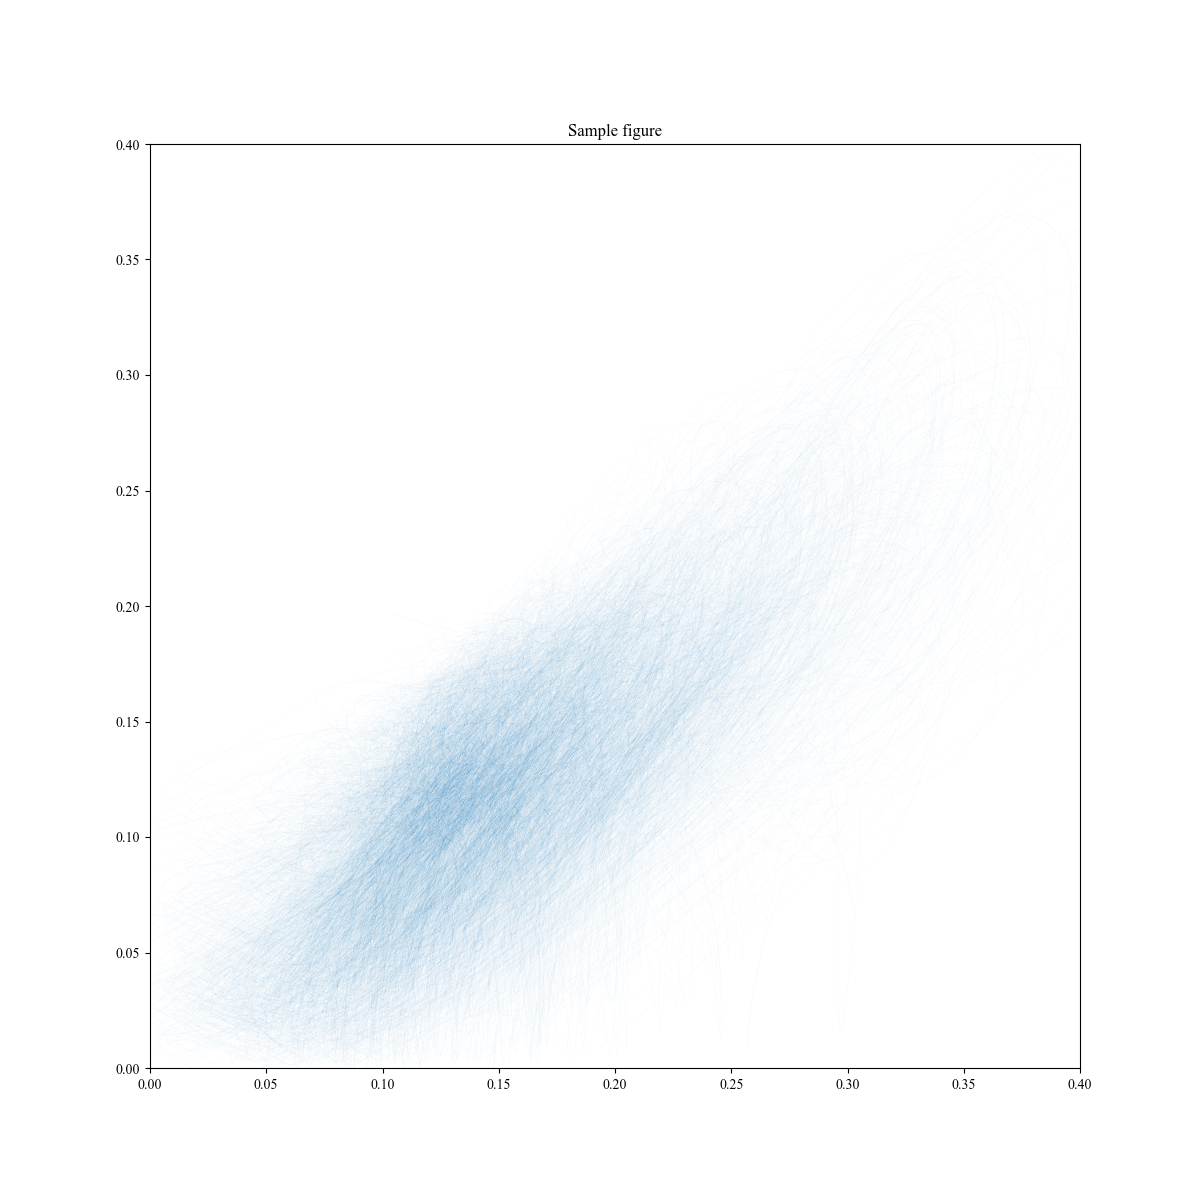
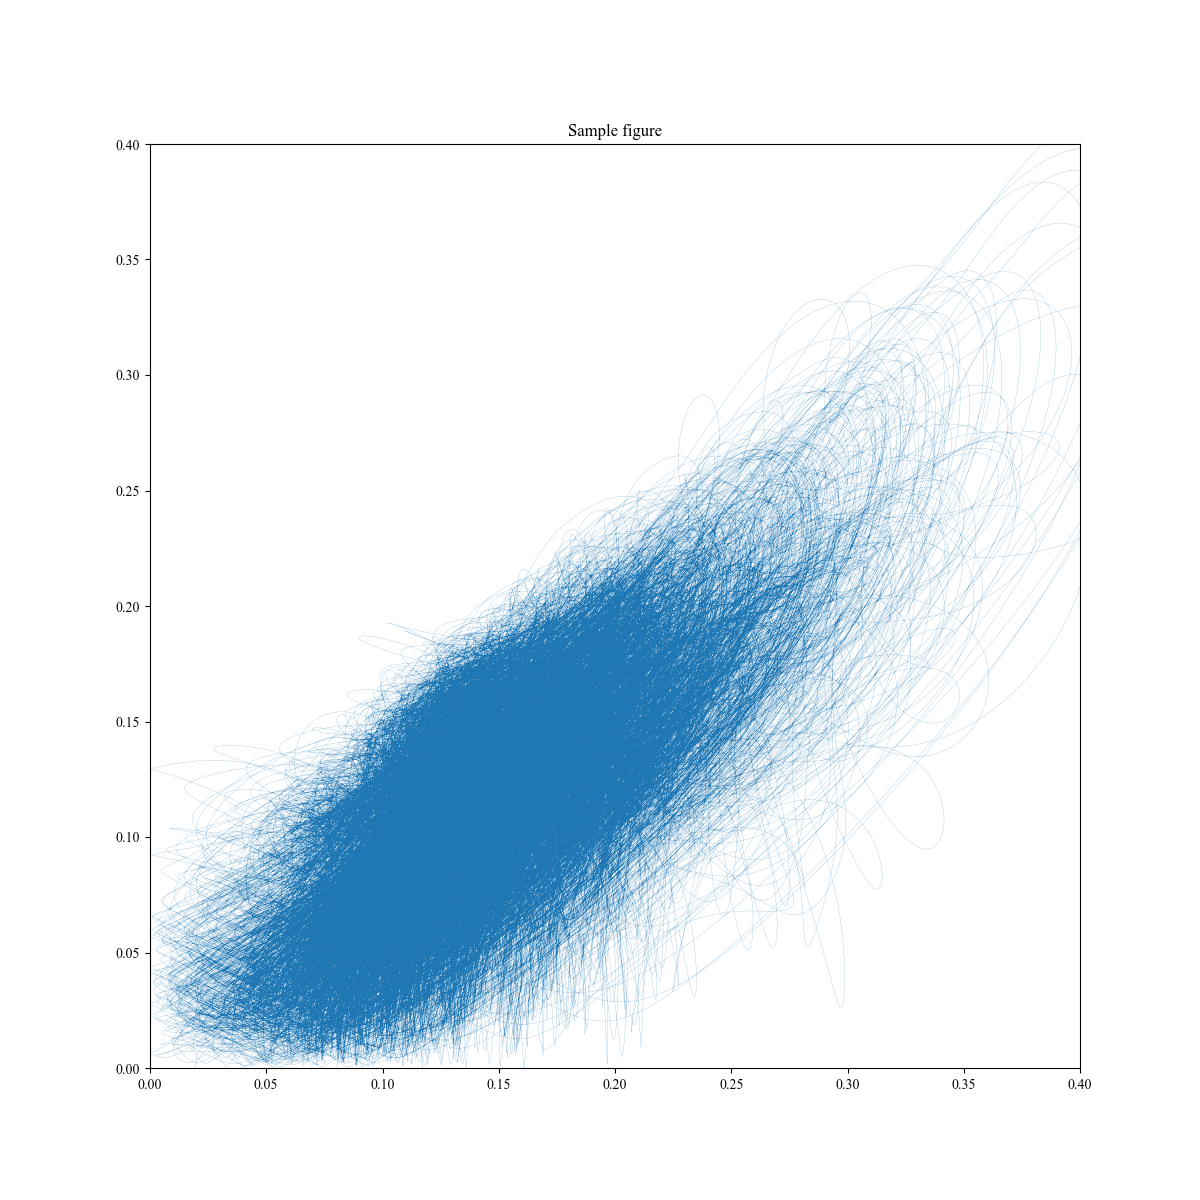
add graphs

Changed region(s): [[0.1233, 0.2158, 0.8633, 0.8942]]

diff --git a/code/extract_sync.cpp b/code/extract_sync.cpp
@@ -27,8 +27,8 @@ bool isSync(double a, double b, double epsilon);
 
 int main(){
     auto start = std::chrono::system_clock::now(); // 計測開始時間
-    double nu = 0.00018;
-    double beta = 0.423;
+    double nu = 1.8e-4;
+    double beta = 0.469363;
     std::complex<double> f = std::complex<double>(1.0,1.0) * 5.0 * 0.001;
     double dt = 0.01;
     double t_0 = 0;
@@ -36,25 +36,26 @@ int main(){
     double latter = 1;
     int numthreads = omp_get_max_threads();
     int window = 1000; // how long the sync part should be. (sec)
-    window *= 100; // when dt = 0.01 
+    window *= 100; // 100 when dt = 0.01 
+    int trim = 100; // how much to trim from both starts and ends of sync part
 
     //make pairs of shells to observe phase difference(num begins from 1)
     std::vector<std::tuple<int, int, double>> sync_pairs;
 
-    sync_pairs.push_back(std::make_tuple(5, 8, 2.2));
-    sync_pairs.push_back(std::make_tuple(5, 11, 2.2));
-    sync_pairs.push_back(std::make_tuple(5, 14, 2.2));
-    sync_pairs.push_back(std::make_tuple(8, 11, 0.5));
-    sync_pairs.push_back(std::make_tuple(8, 14, 0.5));
-    sync_pairs.push_back(std::make_tuple(11, 14, 1E-2));
+    sync_pairs.push_back(std::make_tuple(5, 8, 2.3));
+    sync_pairs.push_back(std::make_tuple(5, 11, 2.3));
+    sync_pairs.push_back(std::make_tuple(5, 14, 2.3));
+    sync_pairs.push_back(std::make_tuple(8, 11, 0.7));
+    sync_pairs.push_back(std::make_tuple(8, 14, 0.7));
+    sync_pairs.push_back(std::make_tuple(11, 14, 1E-1));
 
-    sync_pairs.push_back(std::make_tuple(6, 9, 2));
-    sync_pairs.push_back(std::make_tuple(6, 12, 2));
-    sync_pairs.push_back(std::make_tuple(9, 12, 0.2));
+    sync_pairs.push_back(std::make_tuple(6, 9, 2.3));
+    sync_pairs.push_back(std::make_tuple(6, 12, 2.3));
+    sync_pairs.push_back(std::make_tuple(9, 12, 3e-1));
 
     // sync_pairs.push_back(std::make_tuple(1, 2, 4)); // dummy to check unextracted trajectory
 
-    Eigen::VectorXcd x_0 = npy2EigenVec("../../initials/beta0.41616_nu0.00018_10000period_dt0.01.npy");
+    Eigen::VectorXcd x_0 = npy2EigenVec("../../initials/beta0.469363_nu0.00011815_2000period.npy");
     ShellModel solver(nu, beta, f, dt, t_0, t, latter, x_0);
     std::cout << "calculating trajectory" << std::endl;
     Eigen::MatrixXcd trajectory = solver.get_trajectory_(); //wide matrix
@@ -99,7 +100,7 @@ int main(){
         else{
             if (counter >= window){
                 //adding synchronized part to synced
-                for (int j = 0 + 500*100; j < counter - 1 - 500*100; j++){
+                for (int j = 0 + trim*100; j < counter - 1 - trim*100; j++){
                     for (int k = 0; k < angles.cols() + 1; k++){
                         synced[k].push_back(trajectory(k, j + i - counter));
                     }
@@ -144,11 +145,11 @@ int main(){
     keywords.insert(std::make_pair("wspace", 0.4)); // also hspace
     std::vector<double> x(synced[0].size()/skip),y(synced[0].size()/skip);
     for (int i = 0; i < x.size(); i++){
-        x[i] = std::abs(synced[14][i*skip]);
-        y[i] = std::abs(synced[0][i*skip]);
+        x[i] = std::abs(synced[3][i*skip]);
+        y[i] = std::abs(synced[4][i*skip]);
     }
-    // plt::xlim(0.0, 0.4);
-    // plt::ylim(0.0, 0.4);
+    plt::xlim(0.0, 0.4);
+    plt::ylim(0.0, 0.4);
     plt::scatter(x, y);
 
     std::ostringstream oss;

diff --git a/code/stagger_and_step_sync.cpp b/code/stagger_and_step_sync.cpp
@@ -30,18 +30,18 @@ std::tuple<Eigen::VectorXd, Eigen::VectorXd, Eigen::VectorXcd> calc_next(ShellMo
 int main(){
     auto start = std::chrono::system_clock::now(); // 計測開始時間
     const double nu = 0.00018;
-    const double beta = 0.445;
+    const double beta = 0.429;
     const std::complex<double> f = std::complex<double>(1.0,1.0) * 5.0 * 0.001;
     const double dt = 0.01;
     const double t_0 = 0;
-    const double t = 1000;
+    const double t = 10000;
     const double latter = 1;
     const double check = 1000;
-    const double progress = 1000;
+    const double progress = 10;
     int limit = 1e+5; //limitation of trial of stagger and step
-    // Eigen::MatrixXcd loaded = npy2EigenMat<std::complex<double>>("../../generated_lam/sync_gen_laminar_beta_0.444nu_0.00018_dt0.01_3000period2000check1000progress10^-1-10^2147483647perturb_4-7_4-10_4-13_7-10_7-13_10-13_5-8_5-11_5-14_8-11_8-14_11-14_6-9_6-12_9-12.npy");
-    // Eigen::VectorXcd x_0 = loaded.block(0, 2000*100, 14, 1);
-    Eigen::VectorXcd x_0 = npy2EigenVec<std::complex<double>>("../../initials/beta0.444_nu0.00018_2000period_dt0.01_4-7_4-10_4-13_7-10_7-13_10-13_5-8_5-11_5-14_8-11_8-14_11-14_6-9_6-12_9-12.npy");
+    Eigen::MatrixXcd loaded = npy2EigenMat<std::complex<double>>("../../generated_lam/sync_gen_laminar_beta_0.429nu_0.00018_dt0.01_1000period1000check10progress10^-5-10^-3perturb_4-7_4-10_4-13_7-10_7-13_10-13_5-8_5-11_5-14_8-11_8-14_11-14_6-9_6-12_9-12.npy");
+    Eigen::VectorXcd x_0 = loaded.block(0, 1000*100, 14, 1);
+    // Eigen::VectorXcd x_0 = npy2EigenVec<std::complex<double>>("../../initials/beta0.429_nu0.00018_1500period_dt0.01_4-7_4-10_4-13_7-10_7-13_10-13_5-8_5-11_5-14_8-11_8-14_11-14_6-9_6-12_9-12.npy");
     ShellModel SM(nu, beta, f, dt, t_0, t, latter, x_0);
     Eigen::MatrixXcd Dummy_Laminar(x_0.rows()+1, 1); //dummy matrix to use LongLaminar Class
     LongLaminar LL(nu, beta, f, dt, t_0, t, latter, x_0, Dummy_Laminar, 0.01, 100, check, progress, 8);
@@ -168,7 +168,7 @@ int main(){
                 ShellModel Local_SM = SM; // copy of SM
                 std::vector<std::tuple<int, int, double>> Local_sync_pairs = sync_pairs; // copy of sync_pairs
                 double Local_now_time = Local_SM.get_t_0_();
-                Eigen::VectorXcd Local_x_0 = Local_LL.perturbation_(Local_SM.get_x_0_(), -14, -1);
+                Eigen::VectorXcd Local_x_0 = Local_LL.perturbation_(Local_SM.get_x_0_(), -10, -3);
                 Eigen::VectorXcd Local_now = Local_x_0; // perturbed initial state
                 Eigen::MatrixXcd Local_trajectory = Eigen::MatrixXcd::Zero(Local_now.rows()+1, progress_steps+1); //wide matrix for progress
                 Local_trajectory.topLeftCorner(Local_now.rows(), 1) = Local_now;

diff --git a/code/lyapunov.cpp b/code/lyapunov.cpp
@@ -34,7 +34,7 @@ int main() {
     std::complex<double> f = std::complex<double>(1.0,1.0) * 5.0 * 0.001;
     double dt = 0.01;
     double t_0 = 0;
-    double t = 100000;
+    double t = 1e+5;
     double latter = 1;
     int threads = omp_get_max_threads();
     Eigen::VectorXcd x_0 = npy2EigenVec<std::complex<double>>("../../initials/beta0.44_nu0.00018_10000period_dt0.01_4-7_4-10_4-13_7-10_7-13_10-13_5-8_5-11_5-14_8-11_8-14_11-14_6-9_6-12_9-12.npy");
@@ -45,7 +45,7 @@ int main() {
     Eigen::MatrixXcd rawData = SM.get_trajectory_();
     // データの読み込みをここに記述
     // bool laminar = true;
-    // Eigen::MatrixXcd rawData = npy2EigenMat("../../generated_lam/sync_gen_laminar_beta_0.423nu_0.00018_dt0.01_100000period1000check100progress10^-7-10^-4perturb_4-7_4-10_4-13_7-10_7-13_10-13_5-8_5-11_5-14_8-11_8-14_11-14_6-9_6-12_9-12.npy");
+    // Eigen::MatrixXcd rawData = npy2EigenMat<std::complex<double>>("../../generated_lam/sync_gen_laminar_beta_0.428nu_0.00018_dt0.01_20000period3000check100progress10^-15-10^-12perturb_4-7_4-10_4-13_7-10_7-13_10-13_5-8_5-11_5-14_8-11_8-14_11-14_6-9_6-12_9-12.npy");
     
     
     int dim = rawData.rows() - 1;

diff --git a/code/trajectory_observation.cpp b/code/trajectory_observation.cpp
@@ -14,14 +14,14 @@ namespace plt = matplotlibcpp;
 
 int main(){
     auto start = std::chrono::system_clock::now(); // 計測開始時間
-    double nu = 0.00018;
-    double beta = 0.43;
+    double nu = 0.0021;
+    double beta = 0.5;
     std::complex<double> f = std::complex<double>(1.0,1.0) * 5.0 * 0.001;
-    double ddt = 0.01;
+    double ddt = 0.001;
     double t_0 = 0;
     double t = 1e+5;
     double latter = 1;
-    Eigen::VectorXcd x_0 = npy2EigenVec<std::complex<double>>("../../initials/beta0.41575_nu0.00018_14dim_period.npy");
+    Eigen::VectorXcd x_0 = npy2EigenVec<std::complex<double>>("../../initials/beta0.44_nu0.00018_3period_dt0.01eps0.001.npy");
     ShellModel solver(nu, beta, f, ddt, t_0, t, latter, x_0);
     Eigen::MatrixXcd trajectory = solver.get_trajectory_(); 
     // plot settings
@@ -40,7 +40,7 @@ int main(){
         y[i]=trajectory.cwiseAbs()(4, i);
     }
     std::map<std::string, std::string> keywords;
-    keywords["lw"] = "0.1";
+    keywords["lw"] = "0.01";
     plt::xlim(0.0, 0.4);
     plt::ylim(0.0, 0.4);
     plt::plot(x,y, keywords);

diff --git a/code/search_laminar_around_turbulence.cpp b/code/search_laminar_around_turbulence.cpp
@@ -27,13 +27,13 @@ int main(){
     double t_0 = 0;
     double t = 20000;
     double latter = 4;
-    Eigen::VectorXcd x_0 = npy2EigenVec("../../initials/beta0.416_nu0.00017520319481270297_step0.01_10000.0period_laminar.npy");
+    Eigen::VectorXcd x_0 = npy2EigenVec("../../initials/beta0.415_nu0.00018_100000period_dt0.01.npy");
     ShellModel SM(nu, beta, f, ddt, t_0, t, latter, x_0);
 
     // set up for search
     int threads = omp_get_max_threads();
     
-    int param_steps = 200;
+    int param_steps = 100;
     double beta_begin = 0.5;
     double beta_end = 0.5;
     double nu_begin = 0.0018;
